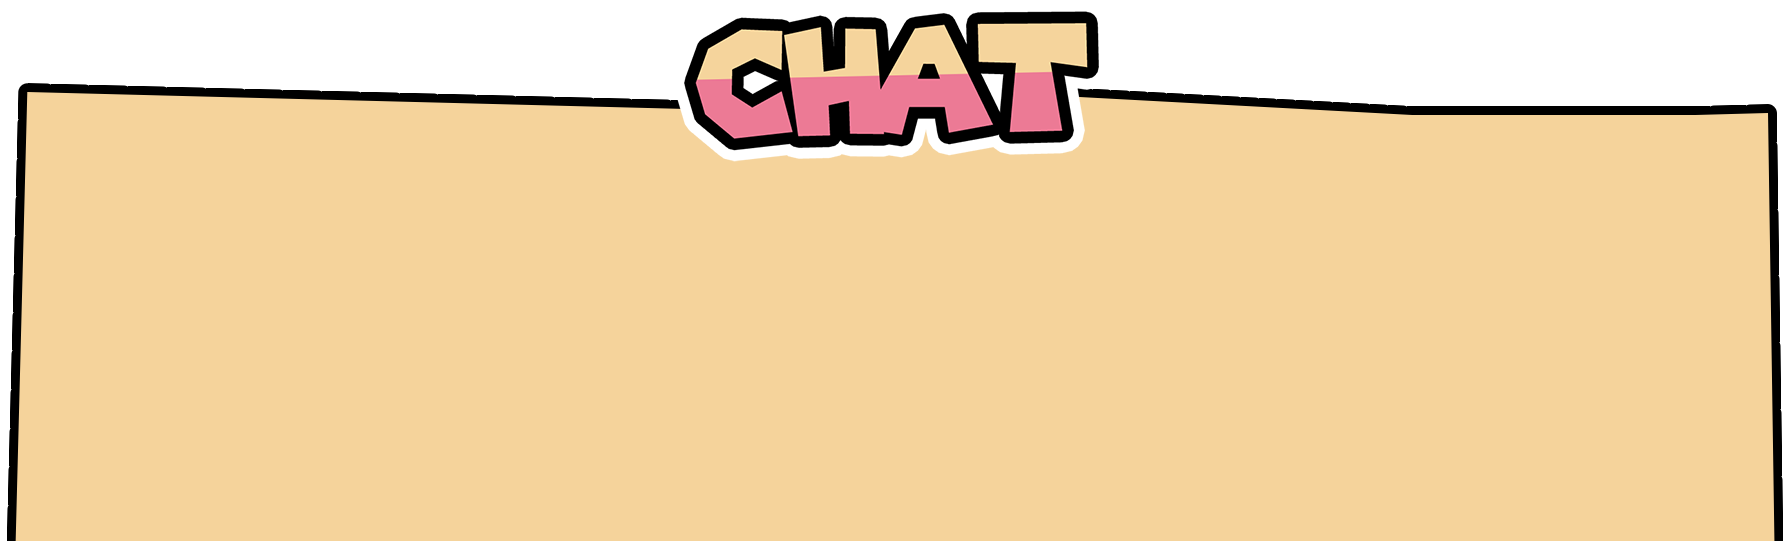
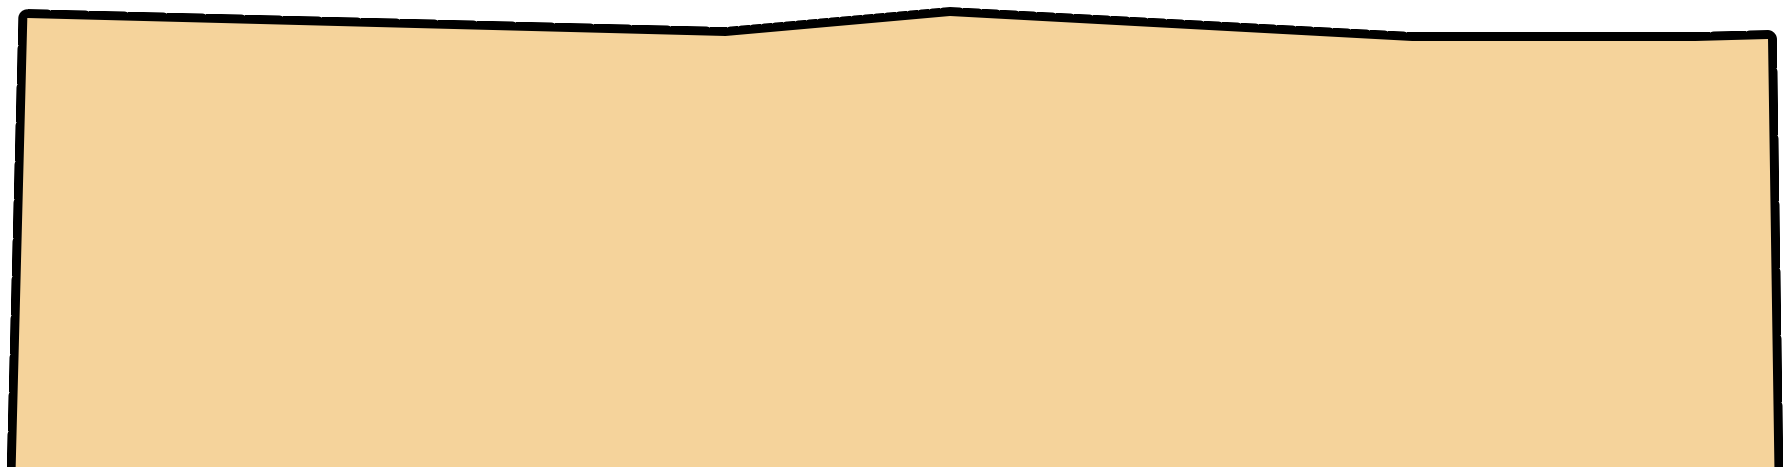
feat: complete chat

Changed region(s): [[0.0, 0.0, 1.0, 0.2998], [0.9832, 0.2398, 1.0, 0.3298]]

diff --git a/main/index.js b/main/index.js
@@ -1,3 +1,4 @@
+import { updateChat } from "../_shared/core/chat.js";
 import { constants } from "../_shared/js/constants.js";
 import { delay, getModDetails } from "../_shared/core/utils.js"
 
@@ -79,6 +80,10 @@ const chatContainerEl = document.getElementById("chat-container")
 const scoresNowPlayingEl = document.getElementById("scores-now-playing")
 let scoreVisible
 
+// Chat
+const chatboxContainerEl = document.getElementById("chatbox-container")
+let chatLen
+
 async function getData() {
     const data = JSON.parse(localStorage.getItem("data"))
     console.log(data)
@@ -136,7 +141,8 @@ async function getData() {
 
     // Team Name
     const tosuData = data.tosuData
-    const teamNames = tosuData.tourney.team
+    const tourneyData = tosuData.tourney
+    const teamNames = tourneyData.team
     if (currentTeamNameLeft !== teamNames.left) {
         currentTeamNameLeft = teamNames.left
         teamNameLeftEl.textContent = currentTeamNameLeft
@@ -200,8 +206,8 @@ async function getData() {
     }
 
     // Score Visible
-    if (scoreVisible !== tosuData.tourney.scoreVisible) {
-        scoreVisible = tosuData.tourney.scoreVisible
+    if (scoreVisible !== tourneyData.scoreVisible) {
+        scoreVisible = tourneyData.scoreVisible
         if (scoreVisible) {
             scoresNowPlayingEl.style.opacity = 1
             chatContainerEl.style.opacity = 0
@@ -209,6 +215,12 @@ async function getData() {
             scoresNowPlayingEl.style.opacity = 0
             chatContainerEl.style.opacity = 1
         }
+    }
+
+    // Chatbox Container
+    const chatData = tourneyData.chat
+    if (chatLen !== chatData.length) {
+        chatLen = updateChat(chatLen, chatData, chatboxContainerEl)
     }
 }
 

diff --git a/_shared/core/chat.js b/_shared/core/chat.js
@@ -1,0 +1,39 @@
+export function updateChat(chatLen, chatData, chatContainerEl) {
+    // This is also mostly taken from Victim Crasher: https://github.com/VictimCrasher/static/tree/master/WaveTournament
+    if (chatLen !== chatData.length) {
+        if (!chatLen || chatLen > chatData.length) {
+            chatContainerEl.innerHTML = ""
+            chatLen = 0
+        }
+
+        const fragment = document.createDocumentFragment()
+
+        for (let i = chatLen; i < chatData.length; i++) {
+            const chatColour = chatData[i].team
+
+            // Chat message container
+            const chatMessageContainer = document.createElement("div")
+            chatMessageContainer.classList.add("chatbox-message")
+
+            // Name
+            const chatboxName = document.createElement("div")
+            chatboxName.classList.add("chatbox-name")
+            chatboxName.classList.add(chatColour)
+            chatboxName.innerText = chatData[i].name + ": ";
+
+            // Message
+            const chatboxMessage = document.createElement("div")
+            chatboxMessage.classList.add("chatbox-content")
+            chatboxMessage.innerText = chatData[i].message
+
+            chatMessageContainer.append(chatboxName, chatboxMessage)
+            fragment.append(chatMessageContainer)
+        }
+
+        chatContainerEl.append(fragment)
+        chatLen = chatData.length
+        chatContainerEl.scrollTop = chatContainerEl.scrollHeight
+    }
+
+    return chatLen
+}

diff --git a/main/style.css b/main/style.css
@@ -107,6 +107,14 @@
     transition: 500ms ease-in-out;
 }
 
+.chatbox-chat-text {
+    position: absolute;
+    bottom: 195px;
+    left: 50%;
+    transform: translateX(-50%);
+    width: 200px;
+}
+
 .chatbox-background {
     position: absolute;
     bottom: 0;
@@ -130,6 +138,43 @@
     width: 145px;
     z-index: 1;
 }
+
+.chatbox-container {
+    position: absolute;
+    bottom: 0;
+    left: 955px;
+    transform: translateX(-50%);
+    width: 833px;
+    height: 190px;
+    display: flex;
+    flex-direction: column;
+    justify-content: flex-end;
+    overflow-y: scroll;
+    font-family: "Helvetica Neue";
+    font-weight: 700;
+    font-size: 1.25rem;
+    margin: 15px;
+}
+.chatbox-container::-webkit-scrollbar { display: none;}
+
+/* Chat Display Message */
+.chatbox-message {
+    display: flex;
+    width: inherit;
+    color: black;
+    line-height: 27px;
+}
+
+.chatbox-name {
+    margin-right: 10px;
+    white-space: nowrap;
+}
+
+.chatbox-content { width: 100%; }
+.left { color: var(--team-red-colour); }
+.right { color: var(--team-blue-colour); }
+.bot { color: purple; }
+.unknown { color: green; }
 
 /* Scores */
 .scores-now-playing {

diff --git a/dashboard/index.js b/dashboard/index.js
@@ -6,7 +6,7 @@ const roundNameEl = document.getElementById("round-name")
 let roundName
 
 // Beatmaps
-const allBeatmaps = []
+let allBeatmaps = []
 
 // Current picker
 let currentPicker = "red"
@@ -99,6 +99,7 @@ let checkedWinner = false
 // Mappool Map Found
 let mappoolMapFound = false
 let mappoolMapModId
+let currentBeatmap
 
 // Socket
 const socket = createTosuWsSocket()
@@ -124,7 +125,7 @@ socket.onmessage = event => {
     }
 
     // Mappool Map Found
-    const currentBeatmap = allBeatmaps.find(beatmap => Number(beatmap.beatmap_id) === Number(socketData.beatmap.id))
+    currentBeatmap = allBeatmaps.find(beatmap => Number(beatmap.beatmap_id) === Number(socketData.beatmap.id))
     if (currentBeatmap) {
         mappoolMapFound = true
         mappoolMapModId = `${currentBeatmap.mod.toUpperCase()}${currentBeatmap.order}`

diff --git a/main/index.html b/main/index.html
@@ -357,6 +357,8 @@
             <img class="chatbox-background" src="static/chatbox/chatbox.png">
             <img class="chatbox-jupiter" src="static/chatbox/jupiter.png">
             <img class="chatbox-uranus" src="static/chatbox/uranus.png">
+            <div class="chatbox-container" id="chatbox-container"></div>
+            <img class="chatbox-chat-text" src="static/chatbox/chat-text.png">
         </div>
 
         <!-- Scores and Now Playing -->
